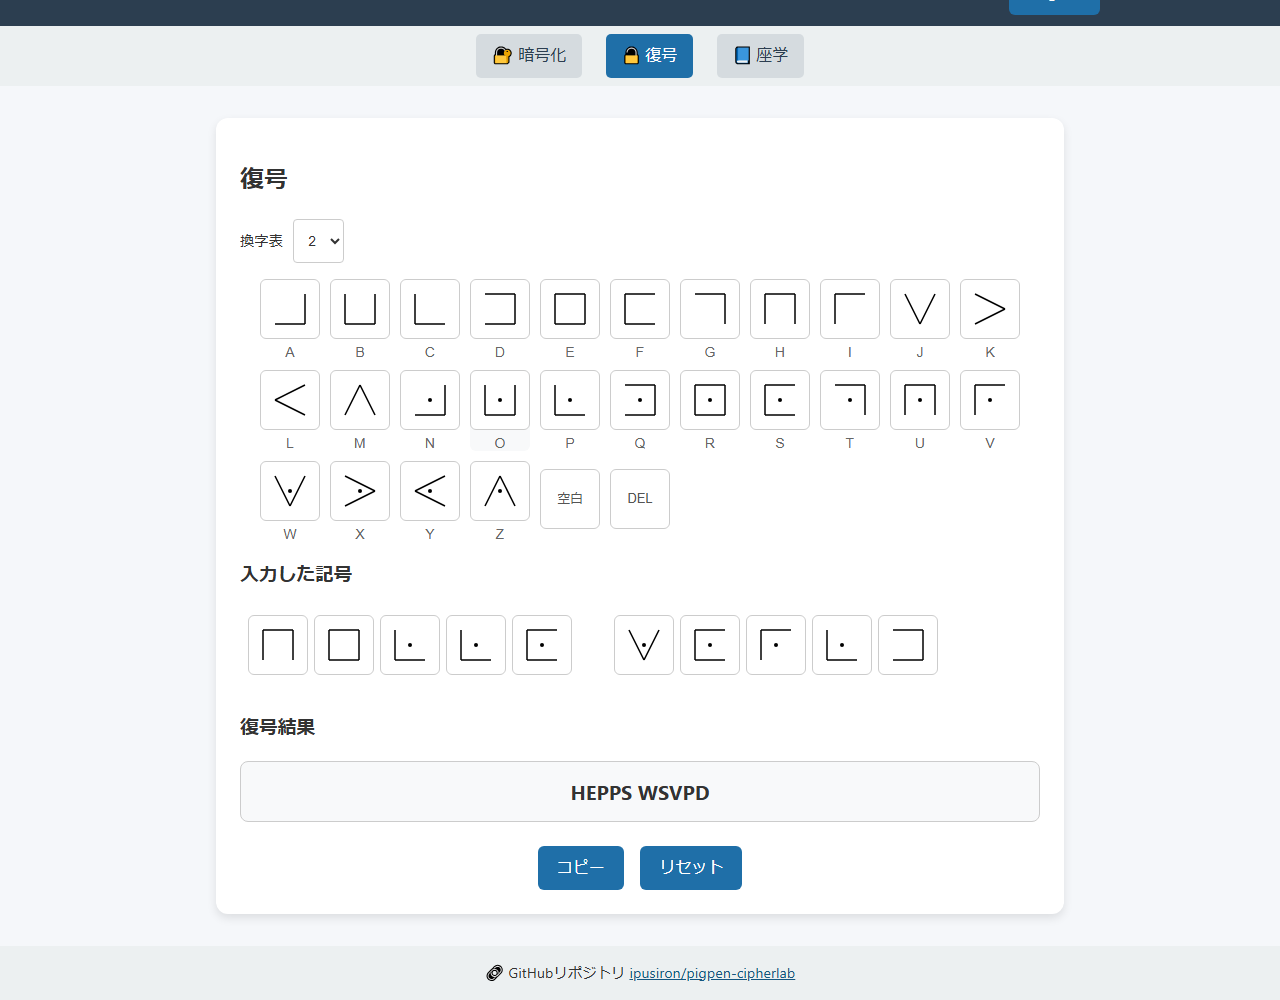
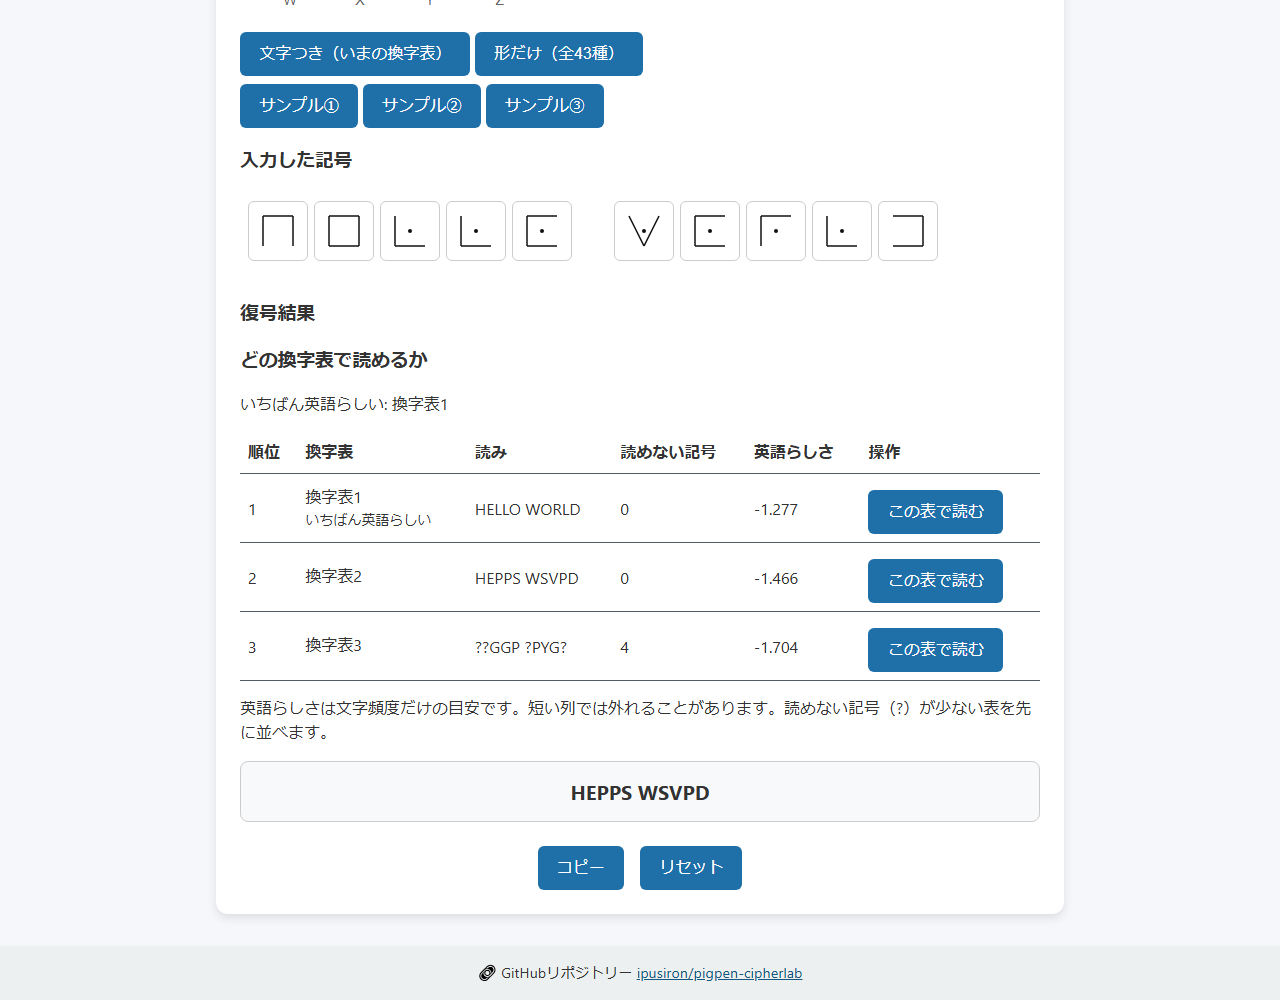
段階6: 日英文書と画面画像6枚を整備

diff --git a/test/readme.test.js b/test/readme.test.js
@@ -62,12 +62,12 @@ test('both trees list every non-ignored project file with descriptions', () => {
   assert.deepEqual(treeFiles(en), files);
 });
 
-test('matching fifteen sections in their specified order', () => {
+test('matching sixteen sections in their specified order', () => {
   const japanese = ['🌐 デモページ', '📸 スクリーンショット', '✨ 機能', '📖 使い方', '🧠 ピッグペン暗号とは？',
-    '🔬 仕様と既知解答', '🔤 暗号化の例', '🔍 ピッグペン暗号文の解読アプローチ', '📚 参考リソース',
+    '🔬 仕様と既知解答', '🧩 解読演習の英文', '🔤 暗号化の例', '🔍 ピッグペン暗号文の解読アプローチ', '📚 参考リソース',
     '🔒 このツールのセキュリティ', '🧪 テスト', '📁 ディレクトリー構造', '💻 動作環境', '📄 ライセンス', '🛠 このツールについて'];
   const english = ['🌐 Demo', '📸 Screenshots', '✨ Features', '📖 Usage', '🧠 What Is the Pigpen Cipher?',
-    '🔬 Specification and Known Answers', '🔤 Encryption Example', '🔍 How to Break a Pigpen Ciphertext', '📚 References',
+    '🔬 Specification and Known Answers', '🧩 Exercise Texts', '🔤 Encryption Example', '🔍 How to Break a Pigpen Ciphertext', '📚 References',
     '🔒 Security of This Tool', '🧪 Tests', '📁 Directory Structure', '💻 Requirements', '📄 License', '🛠 About This Tool'];
   assert.deepEqual([...ja.matchAll(/^## (.+)\r?$/gm)].map(m => m[1].trim()), japanese);
   assert.deepEqual([...en.matchAll(/^## (.+)\r?$/gm)].map(m => m[1].trim()), english);
@@ -75,20 +75,50 @@ test('matching fifteen sections in their specified order', () => {
   assert.ok(en.includes('[日本語](README.md)'));
 });
 
-test('all image references exist, all root PNGs are used, and three screenshots meet limits', () => {
+test('all image references exist, all PNGs are used, and six screenshots meet limits', () => {
   for (const doc of [ja, en]) {
     const images = [...doc.matchAll(/!\[[^\]]*\]\((assets\/[^)]+)\)/g)].map(m => m[1]);
-    assert.equal(images.length, 4);
+    assert.equal(images.length, 7);
     for (const file of images) assert.ok(fs.existsSync(path.join(root, file)), file);
     for (const name of fs.readdirSync(path.join(root, 'assets')).filter(n => n.endsWith('.png'))) {
       assert.ok(images.includes('assets/' + name), name);
     }
+    for (const name of fs.readdirSync(path.join(root, 'assets/en')).filter(n => n.endsWith('.png'))) {
+      assert.ok(images.includes('assets/en/' + name), name);
+    }
   }
-  for (const file of ['assets/screenshot.png', 'assets/screenshot2.png', 'assets/en/screenshot.png']) {
+  for (const file of ['assets/screenshot.png', 'assets/screenshot2.png', 'assets/en/screenshot.png',
+    'assets/screenshot3.png', 'assets/screenshot4.png', 'assets/en/screenshot2.png']) {
     const png = fs.readFileSync(path.join(root, file));
     assert.equal(png.readUInt32BE(16), 1280);
     assert.ok([1000, 1200].includes(png.readUInt32BE(20)));
     assert.ok(png.length <= 300 * 1024);
+  }
+});
+
+test('keyword and ranking examples recompute, and five exercise sources match', () => {
+  for (const doc of [ja, en]) {
+    const keyed = [...doc.matchAll(/^\| (PIGPEN|KRYPTOS) \| ([13]) \| ([A-Z]+) \| ([^|]+) \|$/gm)];
+    assert.equal(keyed.length, 2);
+    for (const [, keyword, base, alphabet, expected] of keyed) {
+      assert.equal(core.keyedAlphabet(keyword), alphabet);
+      const tokens = core.tokenize('HELLO', 'ignore').tokens;
+      const actual = core.encryptWith(tokens, core.keywordTable(base, keyword)).map(t => t.letter + '=' + t.shape).join(' ');
+      assert.equal(actual, expected);
+    }
+    const ranked = [...doc.matchAll(/^\| HELLO WORLD \/ ([123]) \| ([123]) \| ([^|]+) \|$/gm)];
+    assert.equal(ranked.length, 3);
+    for (const [, from, top, text] of ranked) {
+      const tokens = core.tokenize('HELLO WORLD', 'preserve').tokens;
+      const items = core.encryptWith(tokens, core.VARIANTS[from]).map(t => t.type === 'letter' ? t.shape : ' ');
+      const result = core.rankVariants(items, core.VARIANT_IDS.map(id => ({ id, table: core.VARIANTS[id] })))[0];
+      assert.equal(result.id, top);
+      assert.equal(result.text, text);
+    }
+    const sources = [...doc.matchAll(/^\| ([^|]+\(\d{4}\)) \| (\d+) \|$/gm)];
+    assert.equal(sources.length, 5);
+    assert.deepEqual(sources.map(([, source, count]) => [source, Number(count)]),
+      core.EXERCISES.map(e => [e.source, core.tokenize(e.text, 'ignore').tokens.length]));
   }
 });
 

diff --git a/js/i18n.js b/js/i18n.js
@@ -117,7 +117,7 @@ const i18n = (() => {
     "ui.97": "覚えておくべきこと：ピッグペン暗号は見た目は複雑ですが、本質的には単純な単一換字式暗号です。グリフをアルファベットに置き換えることができれば、あとは通常の暗号解読手法が使えます。",
     "ui.98": "📖 Pigpen CipherLab ヘルプ",
     "ui.99": "🔐 暗号化タブの使い方",
-    "ui.100": "換字表を選択：使用したいグリフセット（1〜3）を選びます",
+    "ui.100": "換字表を選択：1〜3またはキーワードを選びます",
     "ui.101": "空白処理を設定：空白を無視するか保持するかを選択",
     "ui.102": "テキストを入力：暗号化したい英文を入力欄に記入",
     "ui.103": "リアルタイム暗号化：入力と同時に自動的にグリフに変換されます",
@@ -279,7 +279,7 @@ const i18n = (() => {
       + "assigning letters to glyphs, familiar cryptanalysis methods apply.",
     "ui.98": "📖 Pigpen CipherLab help",
     "ui.99": "🔐 Using the Encrypt tab",
-    "ui.100": "Choose a key mapping: select one of the three glyph sets.",
+    "ui.100": "Choose a key mapping: select 1–3 or Keyword.",
     "ui.101": "Set whitespace handling: choose whether to ignore or preserve whitespace.",
     "ui.102": "Enter text: type the text you want to encrypt.",
     "ui.103": "Live encryption: input is converted to glyphs immediately.",
@@ -322,6 +322,11 @@ const i18n = (() => {
   };
 
   Object.assign(ja, {
+    'help.extensions': 'キーワード・推定・解読演習',
+    'help.keyword': 'キーワードの重複を除き、残りの英字をA〜Z順で続けて基の表に配置します。3タブで同期します。',
+    'help.rank': '形だけの43キーとサンプルから記号を入力できます。読めない数、英語頻度のlog10平均の順で表を比較します。短い列では推定が外れることがあります。',
+    'help.exercise': '出典を選び、新しい問題で出題します。頻度表で文字を当て、ヒント・答えを見る・クリアを使えます。',
+    'help.exerciseDetail': 'ヒントは正しくない記号のうち最多のものを埋めます。答えの表示と自力での正解は区別します。新問では当て方を消します。乱数が利用できなければ出題しません。',
     'warn.ignoredOne': '英字以外の{count}文字は無視しました',
     'keyword.option': 'キーワード', 'keyword.label': 'キーワード（最大40文字）', 'keyword.base': '基にする換字表',
     'keyword.note': '換字表{base}の置き場所に、{alphabet}の順に文字を入れたキーワード表です。',
@@ -332,6 +337,13 @@ const i18n = (() => {
     'shape.xR': 'X字の右の区画', 'shape.xB': 'X字の下の区画'
   });
   Object.assign(en, {
+    'help.extensions': 'Keywords, ranking and exercises',
+    'help.keyword': 'Deduplicate the keyword, append unused A–Z letters, and place them in the base mapping. Three tabs stay synchronized.',
+    'help.rank': 'Use 43 shape-only keys or samples. Compare fewer unknowns, then higher mean log10 English frequency. ' +
+      'Short sequences can rank incorrectly.',
+    'help.exercise': 'Choose a source and New problem. Guess letters in the frequency table, or use Hint, Show answer and Clear.',
+    'help.exerciseDetail': 'Hint fills the most frequent incorrect symbol. Revealing and solving are distinct. ' +
+      'New problems clear guesses. Randomness is required.',
     'warn.ignoredOne': 'Ignored {count} non-letter character',
     'keyword.option': 'Keyword', 'keyword.label': 'Keyword (up to 40 characters)', 'keyword.base': 'Base mapping',
     'keyword.note': 'Keyword mapping based on mapping {base}: place the letters in this order: {alphabet}.',

diff --git a/index.html b/index.html
@@ -324,9 +324,16 @@
       </div>
       <div class="modal-body">
         <section class="help-section">
+          <h3 data-i18n="help.extensions">キーワード・推定・解読演習</h3>
+          <p data-i18n="help.keyword">キーワードの重複を除き、残りの英字をA〜Z順で続けて基の表に配置します。3タブで同期します。</p>
+          <p data-i18n="help.rank">形だけの43キーとサンプルから記号を入力できます。読めない数、英語頻度のlog10平均の順で表を比較します。</p>
+          <p data-i18n="help.exercise">出典を選び、新しい問題で出題します。頻度表で文字を当て、ヒント・答えを見る・クリアを使えます。</p>
+          <p data-i18n="help.exerciseDetail">ヒントは正しくない記号のうち最多のものを埋めます。答えの表示と自力での正解は区別します。</p>
+        </section>
+        <section class="help-section">
           <h3 data-i18n="ui.99">🔐 暗号化タブの使い方</h3>
           <ol>
-            <li data-i18n="ui.100">換字表を選択：使用したいグリフセット（1〜3）を選びます</li>
+            <li data-i18n="ui.100">換字表を選択：1〜3またはキーワードを選びます</li>
             <li data-i18n="ui.101">空白処理を設定：空白を無視するか保持するかを選択</li>
             <li data-i18n="ui.102">テキストを入力：暗号化したい英文を入力欄に記入</li>
             <li data-i18n="ui.103">リアルタイム暗号化：入力と同時に自動的にグリフに変換されます</li>

diff --git a/style.css b/style.css
@@ -137,8 +137,8 @@ button:hover {
   margin: 1rem 0;
 }
 
-.glyph-grid img,
-.glyph-output img {
+.glyph-grid .model-glyph,
+.glyph-output .model-glyph {
   width: 60px;
   height: 60px;
   cursor: pointer;

diff --git a/README.en.md b/README.en.md
@@ -11,7 +11,7 @@ English · [日本語](README.md)
 **Day032 - 100 Security Tools with Generative AI**
 
 Pigpen CipherLab is a web tool for seeing, exploring and learning the classical Pigpen cipher.
-Three tabs—Encrypt, Decrypt and Learn—provide an interactive view of three synchronized key mappings.
+Four tabs—Encrypt, Decrypt, Learn and Exercises—explore three standard mappings, keyword mappings and frequency analysis.
 
 ---
 
@@ -25,19 +25,36 @@ Three tabs—Encrypt, Decrypt and Learn—provide an interactive view of three s
 
 ![English Learn tab](assets/en/screenshot.png)
 
-*English Learn tab: lesson 2, the set 1 key mapping and the start of the reading guide with symbol images.*
+*English Learn tab: lesson 2, set 1 and model-drawn symbols in the reading guide. 1280×1000, 65,810 bytes.*
+
+![English keyword mapping](assets/en/screenshot2.png)
+
+*English Learn tab: PIGPEN with base 1, its diagram and explanation. 1280×1000, 45,695 bytes.*
 
 !["hello world." encrypted](assets/screenshot.png)
 
-*Japanese Encrypt tab: set 1, Preserve whitespace, input hello world. The highlighted reference and both warnings are visible.*
+*Japanese Encrypt tab: set 1, Preserve whitespace, input hello world. Reference highlights and both warnings. 1280×1000, 46,097 bytes.*
 
 ![Rereading with set 2](assets/screenshot2.png)
 
-*Japanese Decrypt tab: enter HELLO WORLD with set 1, then choose set 2 to read the same symbols as HEPPS WSVPD.*
+*Japanese Decrypt tab: enter HELLO WORLD with set 1, then reread with set 2 as HEPPS WSVPD. 1280×1000, 52,682 bytes.*
+
+![Variant ranking](assets/screenshot3.png)
+
+*Japanese Decrypt tab: shape-only keys, sample 2, mapping 2 ranked first. 1280×1000, 64,775 bytes.*
+
+![Exercise in progress](assets/screenshot4.png)
+
+*Japanese exercise: lincoln after three hints, showing guesses and symbol frequencies. 1280×1000, 40,872 bytes.*
 
 ---
 
 ## ✨ Features
+
+- **Variant ranking**: enter symbols using 43 shape-only keys and compare three standard mappings and a configured keyword mapping
+- **Keyword mappings**: use a keyword of up to 40 characters and a base mapping; synchronize Encrypt, Decrypt and Learn
+- **Cryptanalysis exercises**: solve five English excerpts with a fresh random substitution and symbol-frequency hints
+- **Model-driven symbols**: generate SVG lines and dots from shape IDs without loading individual symbol images
 
 ### 📱 Tabs
 
@@ -46,6 +63,7 @@ Three tabs—Encrypt, Decrypt and Learn—provide an interactive view of three s
 | 🔐 Encrypt | Convert text into Pigpen glyphs immediately, with letter highlighting |
 | 🔓 Decrypt | Enter a symbol sequence and reread it with the selected key mapping; copy the result |
 | 📘 Learn | Study the history, structure and cryptanalysis of the cipher |
+| 🧩 Exercises | Guess letters from symbol frequencies; use Hint, Show answer, Clear and New problem |
 
 ### 🔐 Encrypt tab
 
@@ -98,6 +116,14 @@ Three tabs—Encrypt, Decrypt and Learn—provide an interactive view of three s
 2. Choose Preserve and inspect the highlights, warnings and ciphertext.
 3. In Decrypt, enter HELLO WORLD using set 1, then switch to set 2. The same symbols now read HEPPS WSVPD.
 4. Use Learn to compare diagrams and notes for each key mapping.
+5. Select Keyword, then enter a keyword and choose a base mapping. The three mapping selectors and alphabet stay synchronized.
+6. In Decrypt, choose Shapes only (all 43) or a sample. Compare candidates and choose Read with this mapping to reread the sequence.
+7. In Exercises, choose a source and press New problem. Assign letters with the frequency-table selectors and use hints when needed.
+
+Hint fills one incorrect or unanswered symbol, choosing the most frequent first.
+Assigning one letter to multiple symbols shows a warning. A correct solution shows Solved and the source; Show answer produces a separate Answer shown message.
+Clear removes guesses. New problem clears guesses and creates a fresh substitution.
+Problems use `crypto.getRandomValues`; when unavailable, the tool explains why it cannot create a problem.
 
 There is no separate Encrypt button: conversion happens as you type. Whitespace-only input follows the selected mode.
 Switching mappings keeps the symbol sequence; symbols absent from the selected mapping are shown as ?.
@@ -170,6 +196,43 @@ Nine symbols in set 3 also occur in set 1. Reading the same set 1 sequence with 
 
 ---
 
+To build a keyword mapping, normalize the keyword, remove repeated letters, and append the remaining letters in A–Z order.
+Place this alphabet into the positions of the base mapping. An empty keyword keeps the ordinary alphabet.
+
+| Keyword | Base | Alphabet | HELLO symbol IDs |
+|---|---|---|---|
+| PIGPEN | 1 | PIGENABCDFHJKLMOQRSTUVWXYZ | H=g:RBL:1 E=g:TRB:0 L=g:TRBL:1 L=g:TRBL:1 O=g:TR:1 |
+| KRYPTOS | 3 | KRYPTOSABCDEFGHIJLMNQUVWXZ | H=g:TRBL:3 E=g:TRB:3 L=g:TBL:3 L=g:TBL:3 O=g:RBL:3 |
+
+Variant ranking orders candidates by fewer unknown symbols, then by the higher mean log10 of the readable letters' English frequencies.
+This is a letter-frequency heuristic, not a test of word meaning, and can be wrong for short sequences.
+
+| Symbol sequence | Top mapping | Reading |
+|---|---|---|
+| HELLO WORLD / 1 | 1 | HELLO WORLD |
+| HELLO WORLD / 2 | 2 | HELLO WORLD |
+| HELLO WORLD / 3 | 3 | HELLO WORLD |
+
+The union of the mappings contains 43 shapes. Symbols are drawn as lines and dots in a 100×100 view box.
+Tests verify that the drawing data matches all 78 existing SVG files exactly in line and dot coordinates.
+
+---
+
+## 🧩 Exercise Texts
+
+These five excerpts are public-domain texts whose copyright terms have expired. Counts include only letters used in the exercises.
+The texts themselves are not reproduced in this README. Each new problem has a fresh substitution; input and guesses are not saved or sent.
+
+| Source | Letters |
+|---|---|
+| Charles Dickens, A Tale of Two Cities (1859) | 82 |
+| Herman Melville, Moby-Dick (1851) | 80 |
+| Jane Austen, Pride and Prejudice (1813) | 92 |
+| Declaration of Independence (1776) | 117 |
+| Abraham Lincoln, Gettysburg Address (1863) | 90 |
+
+---
+
 ## 🔤 Encryption Example
 
 The phrase “X marks the spot” encrypted with set 1 looks like this:
@@ -229,9 +292,9 @@ GitHub Actions runs the same tests on push and pull_request.
 | core2.test.js | Drawing coordinates, keyword tables, variant ranking and exercise known answers |
 | html.test.js | CSP, ARIA, labels and prohibited DOM operations |
 | i18n.test.js | Matching dictionary keys and placeholders; untranslated Japanese literals |
-| contrast.test.js | Eight CSS-variable pairs at or above 4.5:1 |
+| contrast.test.js | Ten CSS-variable pairs at or above 4.5:1 |
 | format.test.js | Maximum line lengths and minimum line counts |
-| readme.test.js | Recompute four known-answer rows; 15 matched sections, trees, images and YAML |
+| readme.test.js | Recompute known answers, keyword/ranking examples; five sources, 16 sections, trees, six screenshots and YAML |
 
 ---
 
@@ -244,7 +307,8 @@ pigpen-cipherlab/                 # Project root
 │       └── test.yml              # Run npm test on push and pull_request
 ├── assets/                       # Images
 │   ├── en/                       # English screenshots
-│   │   └── screenshot.png        # Learn tab: reading set 1
+│   │   ├── screenshot.png        # Learn tab: reading set 1
+│   │   └── screenshot2.png       # Learn tab: PIGPEN with base 1
 │   ├── glyphs/                   # Glyph images by key mapping
 │   │   ├── 1/                    # Set 1: Wikipedia arrangement
 │   │   │   ├── A.svg〜Z.svg      # Letter glyphs (26 files)
@@ -257,7 +321,9 @@ pigpen-cipherlab/                 # Project root
 │   │       └── key_mapping.svg   # Key mapping diagram
 │   ├── ciphertext.png            # README example: X marks the spot
 │   ├── screenshot.png            # Encrypt tab: hello world.
-│   └── screenshot2.png           # Decrypt tab: rereading the symbols with set 2
+│   ├── screenshot2.png           # Decrypt tab: rereading the symbols with set 2
+│   ├── screenshot3.png           # Variant ranking: sample 2
+│   └── screenshot4.png           # Exercise: lincoln after three hints
 ├── js/                           # Scripts separated from the UI
 │   ├── i18n.js                   # Japanese/English dictionaries and language selection
 │   └── pigpen-core.js            # Pure symbol model, normalization, encryption and rereading
@@ -275,7 +341,7 @@ pigpen-cipherlab/                 # Project root
 ├── LICENSE                       # MIT license
 ├── README.en.md                  # English documentation
 ├── README.md                     # Japanese documentation
-├── index.html                    # Three-tab interface
+├── index.html                    # Four-tab interface
 ├── package.json                  # npm test configuration (no dependencies)
 ├── script.js                     # State and UI rendering
 └── style.css                     # Styles
